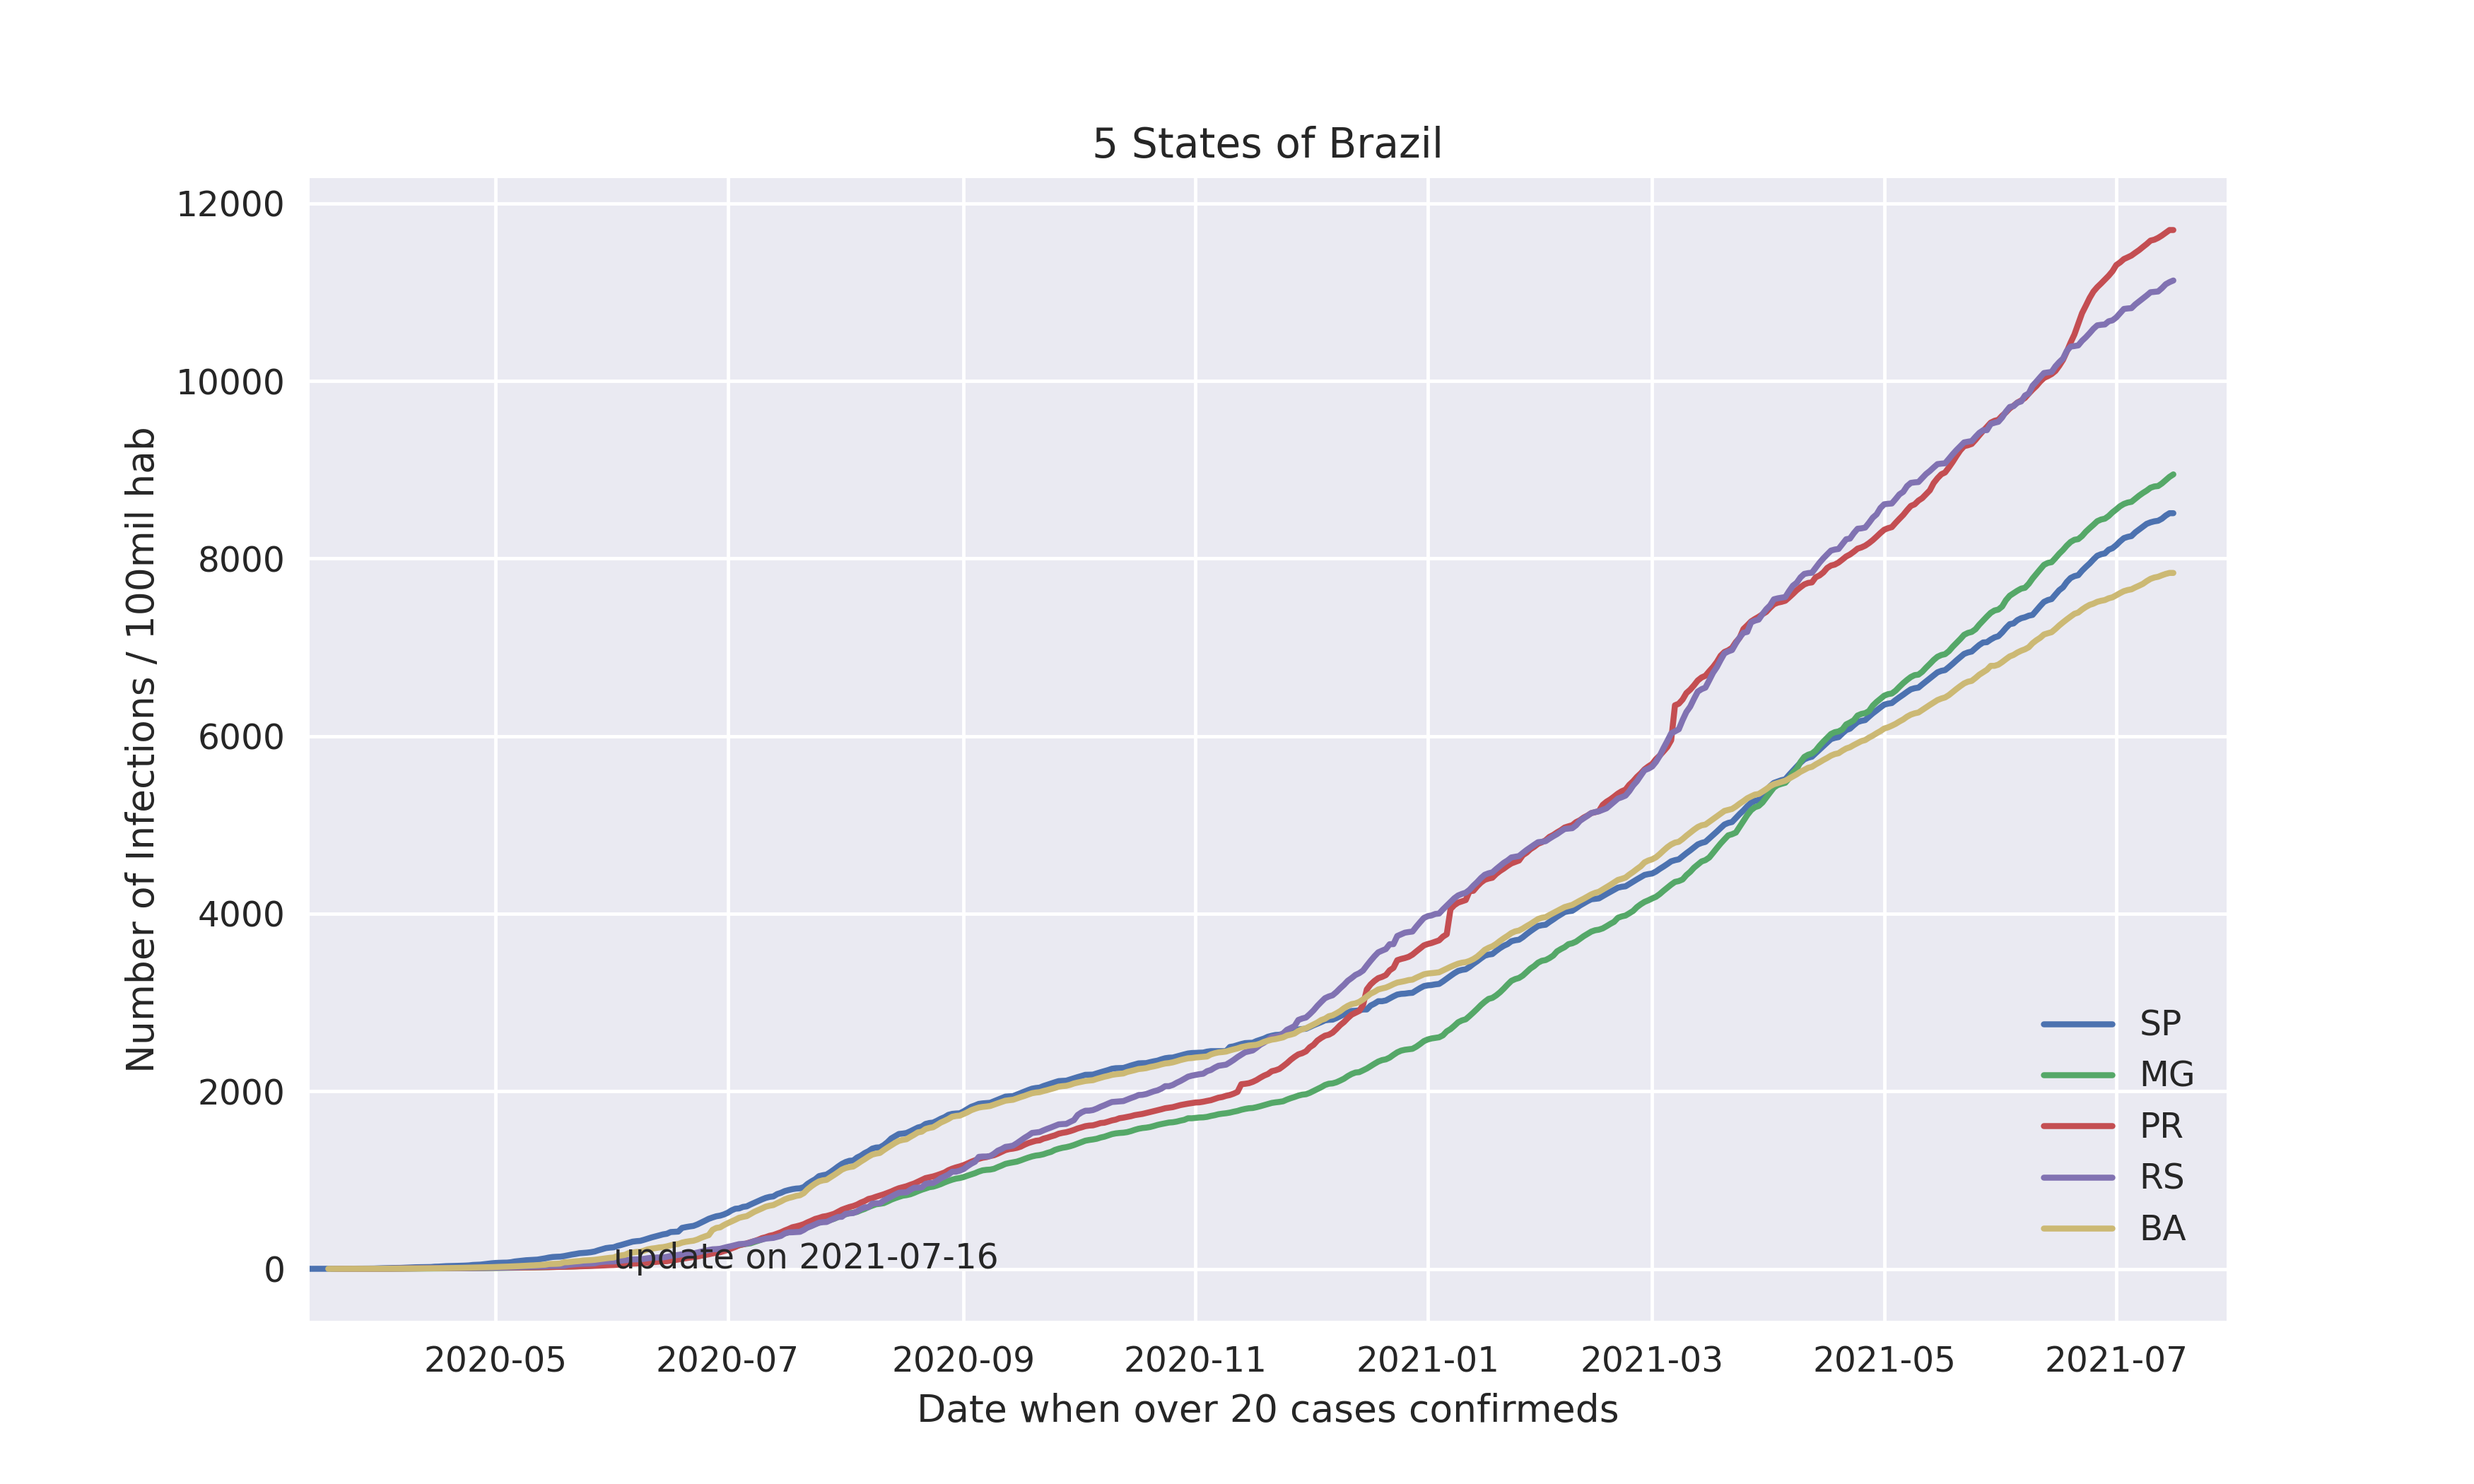
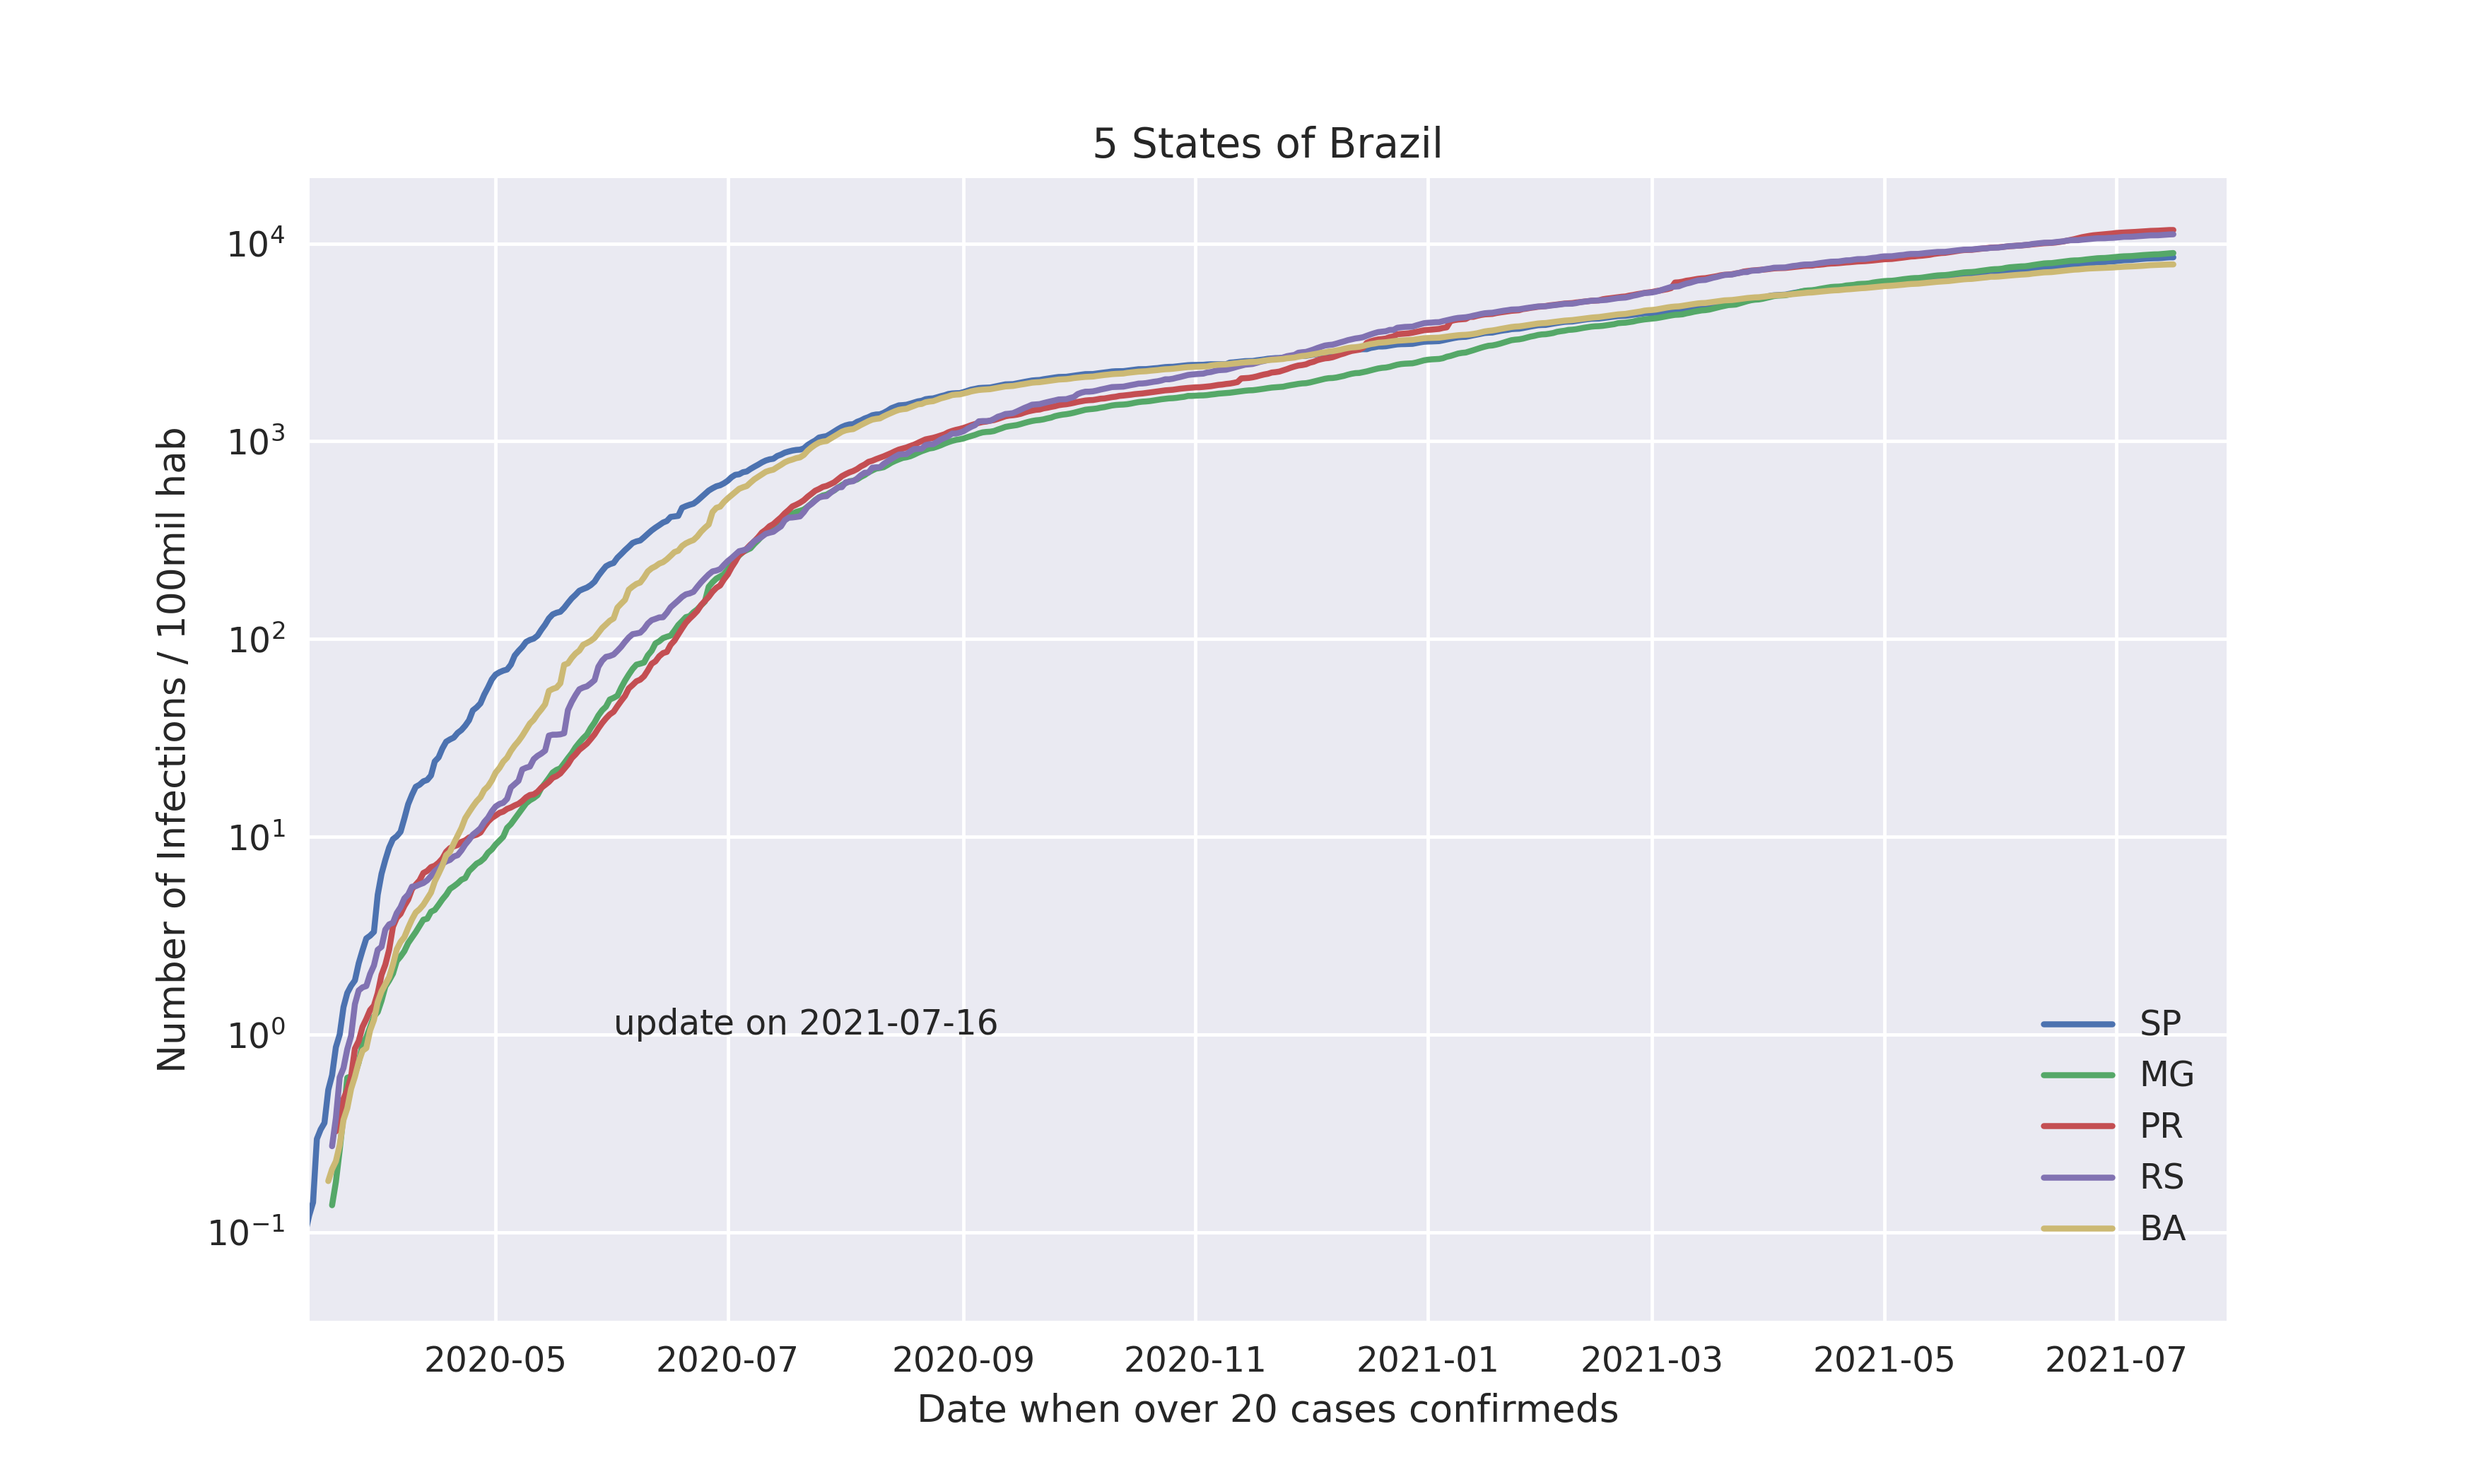
new update

diff --git a/Corona19-Brazil_projeto.py b/Corona19-Brazil_projeto.py
@@ -215,7 +215,7 @@ for ii in TOP5:
         lf = p.totalCases_per_100k_inhabitants.index[p.totalCases_per_100k_inhabitants.argmax()].date()
         # ax.text(lf+timedelta(days=2),p.totalCases_per_100k_inhabitants.max(), ii)
 ax.text(pd.to_datetime('2020-06-01'), 1, 'update on ' + str(today))
-# ax.set_yscale('log')
+ax.set_yscale('log')
 ax.set_title("5 States of Brazil")
 ax.set_ylabel("Number of Infections / 100mil hab")
 ax.set_xlim(pd.to_datetime('2020-03-13').date(), lf+timedelta(days=15))

diff --git a/README.md b/README.md
@@ -91,17 +91,6 @@ This chart shows the number of infected people for Brazil.
 
 ### Infection prediction table
 
-This table predicts the number of infected people for Brazil.
-<!--prediction-->
-|    | Date       |   Prediction |
-|---:|:-----------|-------------:|
-|  0 | 2020-10-14 |      5147952 |
-|  1 | 2020-10-15 |      5173946 |
-|  2 | 2020-10-16 |      5199940 |
-|  3 | 2020-10-17 |      5225934 |
-|  4 | 2020-10-18 |      5251928 |
-
-
 
 * * *
 
@@ -113,13 +102,6 @@ This chart shows the fatality rate by States in Brazil.
 
 * * *
 
-### Infection rate by States in Brazil
-
-This chart shows the infection rate by States in Brazil.
-
-![](images/spreadSpeedRate.png)
-
-* * *
 
 ### Five States of Brazil with the bigger number of infections
 
@@ -166,4 +148,3 @@ This is a volunteer-driven project made by people from different areas and backg
 *   Frederico Gustavo \[Contributor\] [LinkedIn](www.linkedin.com/in/fredericogustavo)
 *   Aracele Torres \[Contibutor\] [LinkedIn](https://www.linkedin.com/in/aracele-lima-torres-b96353134), Twitter: [@araceletorres](https://twitter.com/araceletorres/), [Github](https://github.com/aracele/)
 *   Pedro Venturott \[Contibutor\] [LinkedIn](https://www.linkedin.com/in/pedro-henrique-gomes-venturott-30a379120/)
-*   Gustavo Reginato \[Contributor\] [LinkedIn](https://www.linkedin.com/in/gustavo-reginato/)
